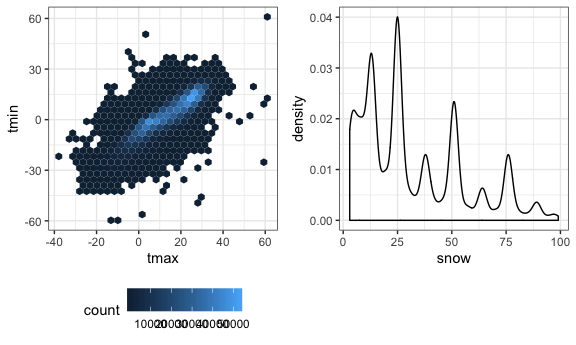
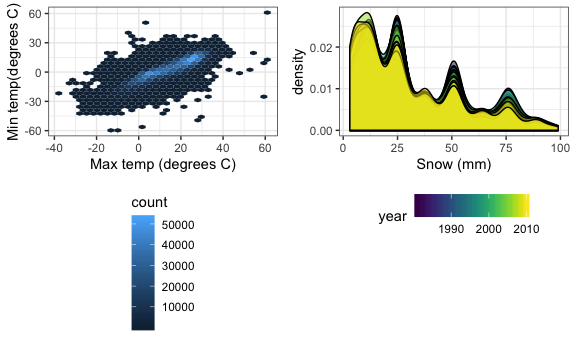
add comments and edit graphics

diff --git a/p8103_hw3_dry2115.md b/p8103_hw3_dry2115.md
@@ -49,7 +49,7 @@ brfss_df %>%
   summarize(n_locations = n_distinct(county)) %>%
 
   ggplot(aes(x = year, y = n_locations, color = state)) +
-    geom_smooth(se = FALSE) +
+    geom_smooth(se = FALSE, size = 0.5) +
     theme(legend.position = "none") +
     labs(
       title = "Number of Distinct Locations by State in 2002-2010",
@@ -59,6 +59,8 @@ brfss_df %>%
 ```
 
 <img src="p8103_hw3_dry2115_files/figure-markdown_github/unnamed-chunk-3-1.png" width="90%" />
+
+The spaghetti plot shows that most states were observed &lt;= 10 locations from 2002 to 2010. The legend was not included in the output because many of the colors are indistinguishable and thus is not informative. More than giving information for each specific state, the plot relays information about the distribution of all states as a collective.
 
 Proportion of "Excellent" responses in NY locations in 2002, 2006, and 2010:
 
@@ -76,6 +78,8 @@ brfss_df %>%
 |  2006|        22.5|       4.0|
 |  2010|        22.7|       3.6|
 
+The mean proportion of excellent responses was highest in 2002, but the standard deviation was also the highest. The years 2006 and 2010 had similar proportions of excellent responses.
+
 Compute average proportions in each response category for each state and year:
 
 ``` r
@@ -83,8 +87,8 @@ brfss_df %>%
   group_by(response, year, state) %>%
   summarize(mean_prop = mean(data_value)) %>%
   
-  ggplot(aes(x = year, y = mean_prop, color = state)) +
-  geom_point(se = FALSE) + 
+  ggplot(aes(x = year, y = mean_prop, group = year)) +
+  geom_boxplot() + 
   facet_grid(~response) +
   theme(legend.position = "none") +
   theme(axis.text.x = element_text(angle = 45)) +
@@ -96,13 +100,19 @@ brfss_df %>%
 
 <img src="p8103_hw3_dry2115_files/figure-markdown_github/unnamed-chunk-5-1.png" width="90%" />
 
+Overall, the mean proportion was highest for the "Very good" response and lowest for the "Poor" response. Within each response category, the mean proportion did not differ significantly between years. The "Poor" response had the most outliers, and they were all upper extremes.
+
 Problem 2
 ---------
 
+The instacart dataset contains 1384617 observations and 15 variables. The data represent descriptive data for the items bought through the app instacart. Key variables include product name, what department and aisle the product is in, the day of the week the item was bought, and if the item was a reorder. For example, "Bulgarian Yogurt" from the "yogurt" aisle in the "dairy eggs" was ordered on Thursday and was a reorder.
+
 ``` r
-instacart %>%
+instacart_aisles = (instacart %>%
   group_by(aisle) %>%
-  summarize(n_items = n()) %>%
+  summarize(n_items = n()))
+
+instacart_aisles %>%
   arrange(desc(n_items)) %>%
   top_n(3)
 ```
@@ -121,24 +131,26 @@ There are 134 distinct aisles.The top three aisles from which items are ordered 
 Plot of the number of items ordered in each aisle:
 
 ``` r
-aisle_top = (instacart %>%
+aisle_top = (instacart_aisles %>%
   head(67) %>%
-  ggplot(aes(x = aisle)) +
-  geom_bar() + 
+  ggplot(aes(x = aisle, y = n_items)) +
+  geom_point() +
   coord_flip() +
-  theme(text = element_text(size = 6)))
+  theme(text = element_text(size = 5)))
 
-aisle_bottom = (instacart %>%
+aisle_bottom = (instacart_aisles %>%
   tail(67) %>%
-  ggplot(aes(x = aisle)) +
-  geom_bar() + 
+  ggplot(aes(x = aisle, y = n_items)) +
+  geom_point() +
   coord_flip() +
-  theme(text = element_text(size = 6)))
+  theme(text = element_text(size = 5)))
 
 aisle_top + aisle_bottom
 ```
 
 <img src="p8103_hw3_dry2115_files/figure-markdown_github/unnamed-chunk-7-1.png" width="90%" />
+
+The plot above shows the number of items bought from each aisle. It accurately reflects that the top three aisles from which items are ordered are "fresh vegetables", "fresh fruits", and "packaged vegetables fruits". The plot was split into two to make it more readable.
 
 Table of most popular items in “baking ingredients”, “dog food care”, and “packaged vegetables fruits”:
 
@@ -155,13 +167,13 @@ instacart %>%
   knitr::kable()
 ```
 
-    ## Selecting by n_items
-
 | aisle                      | most\_popular\_item                             |
 |:---------------------------|:------------------------------------------------|
 | packaged vegetables fruits | Organic Baby Spinach                            |
 | baking ingredients         | Light Brown Sugar                               |
 | dog food care              | Organix Grain Free Chicken & Vegetable Dog Food |
+
+The table above shows the most popular item bought in the aisles specified.
 
 Table showing the mean hour of the day at which Pink Lady Apples and Coffee Ice Cream are ordered on each day of the week:
 
@@ -183,7 +195,7 @@ instacart %>%
 | Coffee Ice Cream | 13:13 | 15:00 | 15:20 | 15:24 | 15:10 | 10:20 | 12:21 |
 | Pink Lady Apples | 12:15 | 11:41 | 12:00 | 13:56 | 11:55 | 13:52 | 11:33 |
 
-Because no other information was given, it was assumed that "0" = Sunday, "1" = Monday, ..., "6" = Saturday.
+Because no other information was given, it was assumed that "0" = Sunday, "1" = Monday, ..., "6" = Saturday. The hour variable was converted to reflect the time in digital format. Coffee ice cream was generally ordered in the afternoon (except on Fridays), and Pink lady apples were generally ordered around midday (except on Wednesdays and Fridays).
 
 Problem 3
 ---------
@@ -205,7 +217,7 @@ ny_noaa_df = as.tibble(ny_noaa %>%
   select(-date))
 ```
 
-Precipitation was in (tenths of mm), so it was divided by 10 to make the units (mm). Tmax and tmin were coerced into integer variables and also divided by 10 to make the units (degrees C) instead of (tenths of degrees C).
+Precipitation was in (tenths of mm), so it was divided by 10 to make the units (mm). Tmax and tmin were coerced into integer variables and also divided by 10 to make the units (degrees C) instead of (tenths of degrees C). The mosted observed values for snow were zero and NA. This makes sense because it does not snow for most days, and missing values were a common issue in the data set.
 
 Two panel plot of average max temperatures in January and July:
 
@@ -228,23 +240,29 @@ ny_noaa_df %>%
 
 <img src="p8103_hw3_dry2115_files/figure-markdown_github/unnamed-chunk-11-1.png" width="90%" />
 
+The mean maximum temperature was distributed around 0 degrees C for January and just under 30 degrees C for July. This accurately reflects changes in temperature for the different seasons. In January, we can see that max temperature gradually increases as year increases, but there is a drastic drop in 1994 and 2004. The max temp is generally static across years in July.
+
 Make a two-panel plot showing (i) tmax vs tmin for the full dataset (note that a scatterplot may not be the best option); and (ii) make a plot showing the distribution of snowfall values greater than 0 and less than 100 separately by year
 
 ``` r
 tmax_tmin_plot = ny_noaa_df %>%
   ggplot(aes(x = tmax, y = tmin)) +
-  geom_hex() 
+  geom_hex() +
+  labs(x = "Max temp (degrees C)",
+       y = "Min temp(degrees C)") +
+  theme(legend.direction = "vertical")
 
 
 snow_plot = ny_noaa_df %>%
   filter(snow > 0 & snow < 100) %>% 
-  group_by(year) %>%
-  ggplot(aes(x = snow, fill = year)) +
-  geom_density()
+  ggplot(aes(x = snow, group = year, fill = year)) +
+  geom_density(alpha = 0.5) +     
+  viridis::scale_fill_viridis() +
+  labs(x = "Snow (mm)")
 
 (tmax_tmin_plot + snow_plot)
 ```
 
-    ## Warning: Removed 1136276 rows containing non-finite values (stat_binhex).
-
 <img src="p8103_hw3_dry2115_files/figure-markdown_github/unnamed-chunk-12-1.png" width="90%" />
+
+From the plot on the left, we can see that most stations report minimum temperatures from -15 to 15 degrees C and max temperatures from 10 to 30 degrees C. The data is slightly bimodal at the ends of those ranges. The plot on the right indicates that snowfall has decreased as the years increase, but generally follow the same density distribution.
